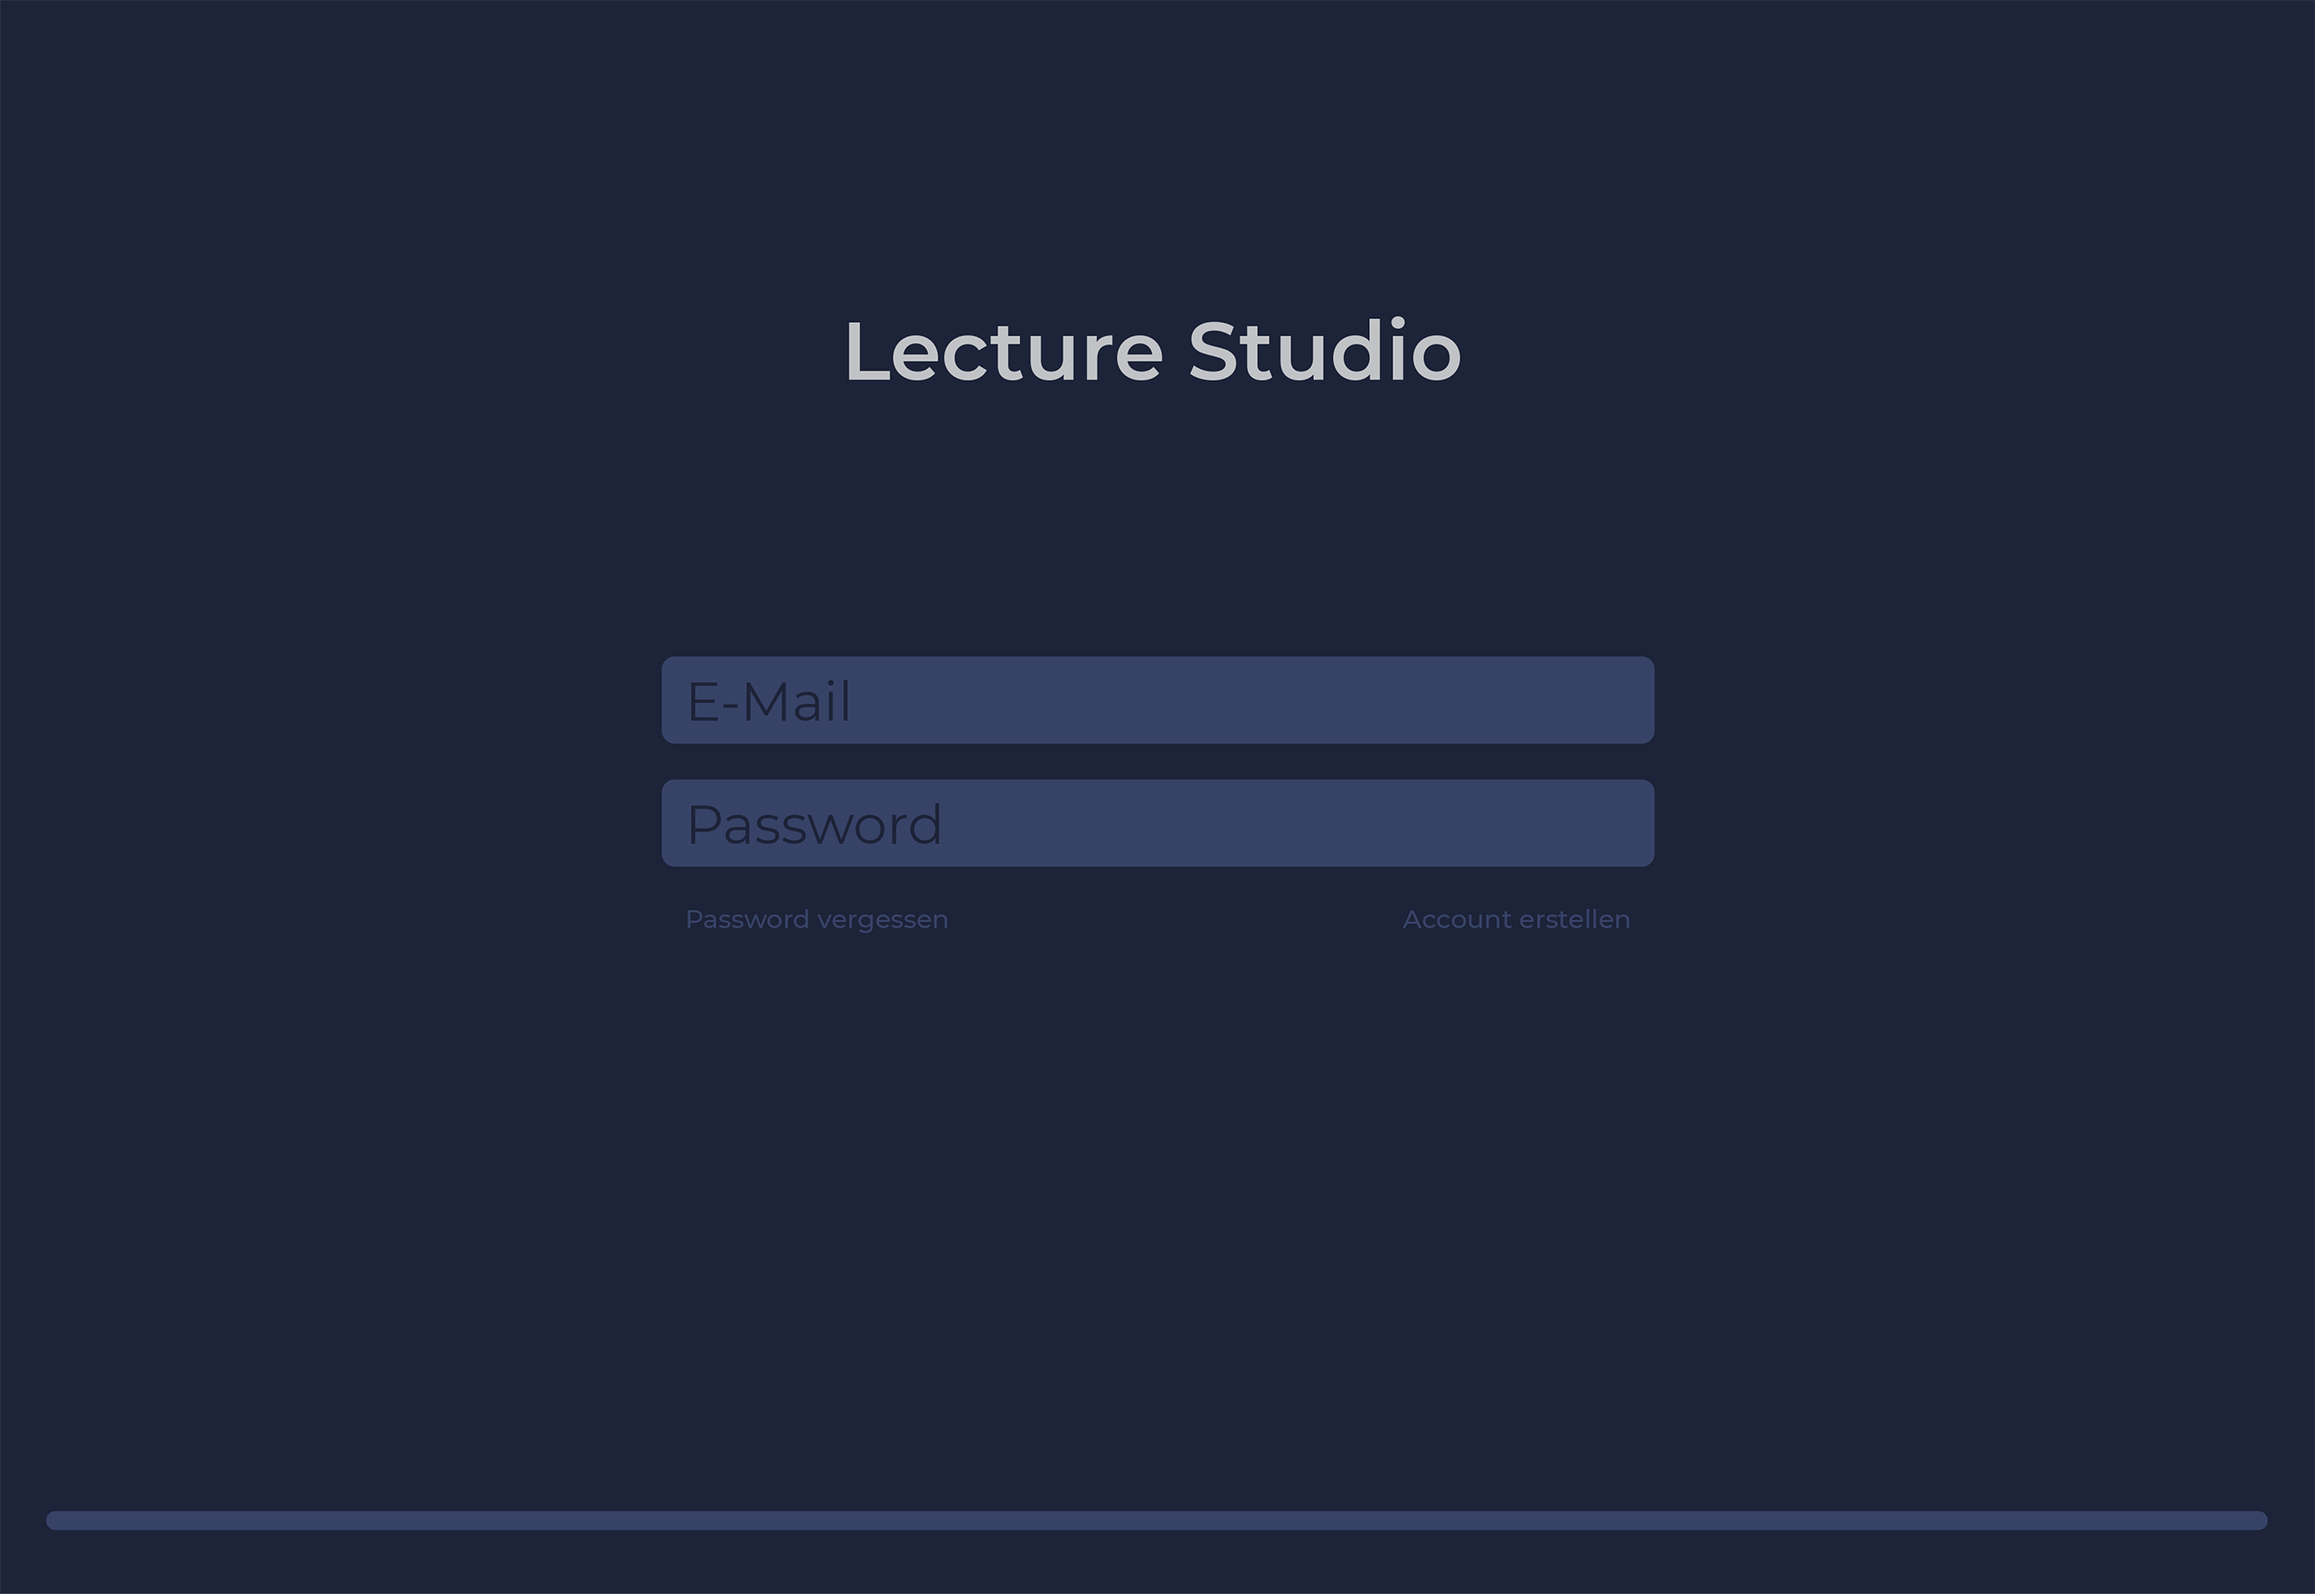
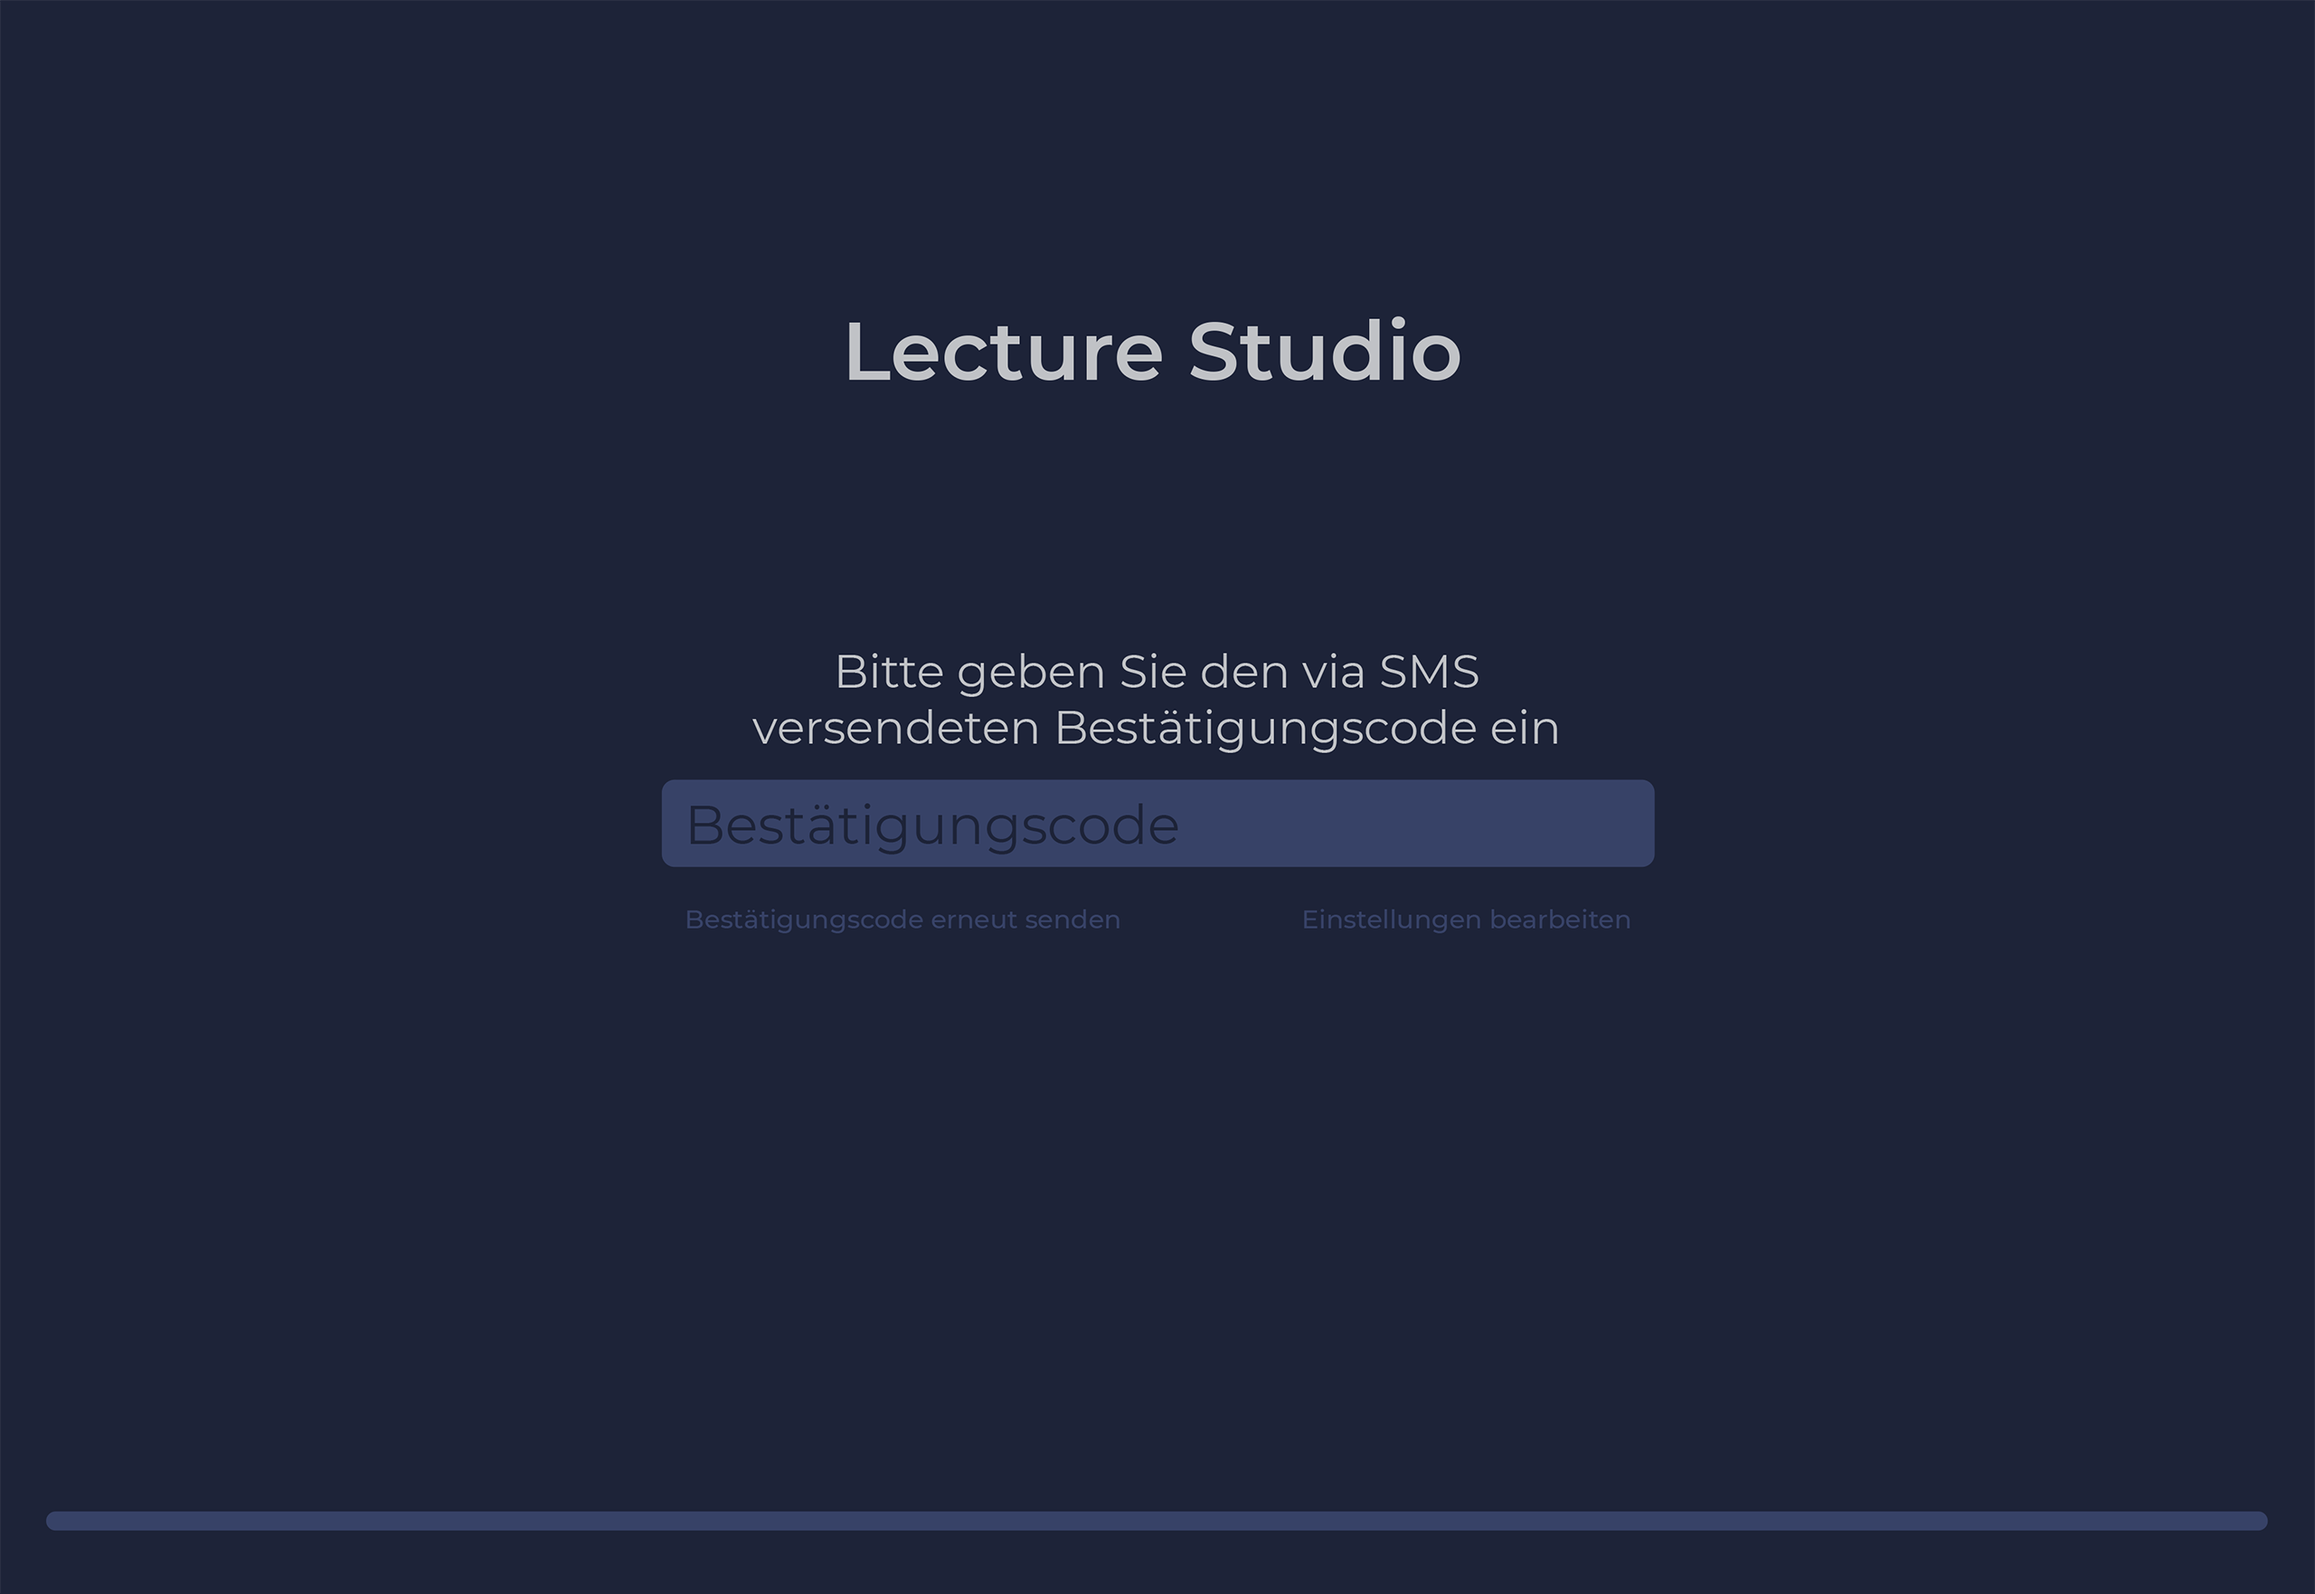
Implemented enhancements from Evaluation

diff --git a/src/mainScreen/MainScreen.js b/src/mainScreen/MainScreen.js
@@ -1,7 +1,7 @@
 import React, { Component, Fragment } from "react";
 import styled from "styled-components";
 import { MockedBg } from "../shared/mockedBgs";
-import { DarkTextareaHotspot } from "../shared/hotspots";
+import { DarkTextareaHotspot, LightTextareaHotspot } from "../shared/hotspots";
 import MainScreenPicture from "../img/mainScreen.png";
 import MainScreenLightPicture from "../img/mainScreenLight.png";
 import PlusButton from "./PlusButton";
@@ -11,8 +11,8 @@ const RenderedDiv = styled.div`
   position: absolute;
   left: 51.94%;
   top: 46.1%;
-  width: 46.4%;
-  height: 53.3%;
+  width: 49.4%;
+  height: 56.3%;
   padding: 0 3.22%;
   box-sizing: border-box;
   border: none;
@@ -21,6 +21,23 @@ const RenderedDiv = styled.div`
   outline: none;
   font-size: 1.46vh;
   font-family: "CMU Serif";
+`;
+
+const RenderedDivLight = styled.div`
+  position: absolute;
+  left: 51.94%;
+  top: 50.1%;
+  width: 46.4%;
+  height: 49.3%;
+  padding: 0px 3.32%;
+  box-sizing: border-box;
+  border: none;
+  background: transparent;
+  color: #464646;
+  outline: none;
+  font-size: 1.46vh;
+  font-family: "Fira Sans";
+  font-weight: 400;
 `;
 
 export default class MainScreen extends Component {
@@ -43,12 +60,24 @@ export default class MainScreen extends Component {
             currentTheme === "dark" ? MainScreenPicture : MainScreenLightPicture
           }
           style={{ cursor: "text" }}>
-          <DarkTextareaHotspot
-            value={currentText}
-            onChange={this.handleTextareaChange}
-            spellcheck="false"
-          />
-          <RenderedDiv>{currentText}</RenderedDiv>
+          {currentTheme === "dark" ? (
+            <DarkTextareaHotspot
+              value={currentText}
+              onChange={this.handleTextareaChange}
+              spellcheck="false"
+            />
+          ) : (
+            <LightTextareaHotspot
+              value={currentText}
+              onChange={this.handleTextareaChange}
+              spellcheck="false"
+            />
+          )}
+          {currentTheme === "dark" ? (
+            <RenderedDiv>{currentText}</RenderedDiv>
+          ) : (
+            <RenderedDivLight>{currentText}</RenderedDivLight>
+          )}
           <PlusButton
             onClick={() =>
               this.setState(state => ({ buttonOpened: !state.buttonOpened }))

diff --git a/src/App.js b/src/App.js
@@ -2,6 +2,7 @@ import React, { Component, Fragment } from "react";
 import styled from "styled-components";
 import { Route, Redirect } from "react-router-dom";
 import IntroLogin from "./startScreens/IntroLogin";
+import IntroLoginSms from "./startScreens/IntroLoginSms";
 import IntroHeadlines from "./startScreens/IntroHeadlines";
 import IntroBold from "./startScreens/IntroBold";
 import IntroThemes from "./startScreens/IntroThemes";
@@ -75,15 +76,18 @@ const mapLocationToProgress = location => {
       progress = 0;
       break;
     case "/intro/2":
-      progress = 0.25;
+      progress = 0.2;
       break;
     case "/intro/3":
-      progress = 0.5;
+      progress = 0.4;
       break;
     case "/intro/4":
-      progress = 0.75;
+      progress = 0.6;
       break;
     case "/intro/5":
+      progress = 0.8;
+      break;
+    case "/intro/6":
       progress = 1;
       break;
     default:
@@ -112,11 +116,12 @@ class App extends Component {
               <StartScreenBg>
                 <ModalBg>
                   <Route exact path="/intro/1" component={IntroLogin} />
-                  <Route exact path="/intro/2" component={IntroHeadlines} />
-                  <Route exact path="/intro/3" component={IntroBold} />
+                  <Route exact path="/intro/2" component={IntroLoginSms} />
+                  <Route exact path="/intro/3" component={IntroHeadlines} />
+                  <Route exact path="/intro/4" component={IntroBold} />
                   <Route
                     exact
-                    path="/intro/4"
+                    path="/intro/5"
                     render={({ history }) => (
                       <IntroThemes
                         history={history}
@@ -127,7 +132,7 @@ class App extends Component {
                   />
                   <Route
                     exact
-                    path="/intro/5"
+                    path="/intro/6"
                     render={({ history }) => (
                       <IntroLoading
                         history={history}

diff --git a/src/startScreens/IntroLoginSms.js b/src/startScreens/IntroLoginSms.js
@@ -2,14 +2,14 @@ import React from "react";
 import { Link } from "react-router-dom";
 import { MockedBgSmall } from "../shared/mockedBgs";
 import { ButtonHotspot, LightTextInputHotspot } from "../shared/hotspots";
-import MockPicture from "../img/startscreen0.png";
+import MockPicture from "../img/startscreen1.png";
 import styled from "styled-components";
 import ArrowButton from "../shared/ArrowButton";
 
 const LoginButtonHotspot = styled(ButtonHotspot)`
-  left: 685px;
+  left: 755px;
   top: 522px;
-  width: 157px;
+  width: 87px;
   height: 34px;
   color: #74c5f3;
   font-size: 20px;
@@ -30,27 +30,19 @@ const LoginButtonHotspot = styled(ButtonHotspot)`
   }
 `;
 
-const PasswordInput = styled(LightTextInputHotspot)`
+const CodeInput = styled(LightTextInputHotspot)`
   left: 266px;
-  top: 312px;
-  width: 394px;
-  height: 35px;
-`;
-
-const EmailInput = styled(LightTextInputHotspot)`
-  left: 266px;
-  top: 262px;
+  top: 313px;
   width: 394px;
   height: 35px;
 `;
 
 export default () => (
   <MockedBgSmall src={MockPicture}>
-    <EmailInput type="text" required />
-    <PasswordInput type="password" required />
-    <Link to="/intro/2">
+    <CodeInput type="text" required />
+    <Link to="/intro/3">
       <LoginButtonHotspot>
-        <span>Anmelden</span>
+        <span>OK</span>
         <ArrowButton />
       </LoginButtonHotspot>
     </Link>

diff --git a/src/shared/hotspots.js b/src/shared/hotspots.js
@@ -32,6 +32,22 @@ export const DarkTextareaHotspot = styled.textarea`
   font-family: "Fira Code";
 `;
 
+export const LightTextareaHotspot = styled.textarea`
+  position: absolute;
+  left: 2%;
+  top: 54.73%;
+  width: 46.3%;
+  height: 44.2%;
+  padding: 0px 3%;
+  box-sizing: border-box;
+  border: none;
+  background: transparent;
+  color: #000;
+  outline: none;
+  font-size: 1.56vh;
+  font-family: "Fira Code";
+`;
+
 export const ButtonHotspot = styled.button`
   cursor: pointer;
   position: absolute;

diff --git a/src/index.css b/src/index.css
@@ -17,9 +17,9 @@ code {
 .plusBtn {
   position: absolute;
   bottom: 1%;
-  left: 44.2%;
-  width: 3.525%;
-  height: 6.267%;
+  left: 43.2%;
+  width: 4.525%;
+  height: 7.267%;
   cursor: pointer;
 }
 
@@ -40,8 +40,8 @@ code {
 
 .buttonMenu {
   position: absolute;
-  bottom: 6%;
-  left: 39.3%;
+  bottom: 6.4%;
+  left: 38.7%;
   width: 5.71%;
   height: 4.888%;
   cursor: pointer;

diff --git a/src/shared/mockedBgs.js b/src/shared/mockedBgs.js
@@ -18,8 +18,9 @@ export const MockedBg = styled.div`
   margin: 0 auto;
   width: calc(100vh * 1.7777777778);
   height: 100vh;
-  top: 0;
-  left: 0;
+  top: 50%;
+  transform: translate(-50%, -50%);
+  left: 50%;
   background-image: url(${props => props.src});
   background-size: contain;
   background-repeat: no-repeat;

diff --git a/src/startScreens/IntroHeadlines.js b/src/startScreens/IntroHeadlines.js
@@ -65,7 +65,7 @@ class IntroHeadlines extends Component {
           required
         />
         {checkShown && <img src={CheckIcon} style={imageStyles} alt="check" />}
-        <Link to="/intro/3">
+        <Link to="/intro/4">
           <NextButton>
             <ArrowButton />
           </NextButton>

diff --git a/src/startScreens/IntroBold.js b/src/startScreens/IntroBold.js
@@ -74,7 +74,7 @@ class IntroBold extends Component {
           required
         />
         {checkShown && <img src={CheckIcon} style={imageStyles} alt="check" />}
-        <Link to="/intro/4">
+        <Link to="/intro/5">
           <NextButton>
             <ArrowButton />
           </NextButton>

diff --git a/src/startScreens/IntroThemes.js b/src/startScreens/IntroThemes.js
@@ -46,7 +46,7 @@ export default function IntroThemes({
 }) {
   function handleCardClick(newVal) {
     changeCurrentTheme(newVal);
-    setTimeout(() => history.push("/intro/5"), 400);
+    setTimeout(() => history.push("/intro/6"), 400);
   }
   return (
     <MockedBgSmall src={MockPicture}>
